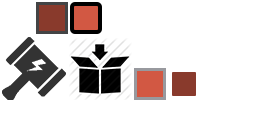
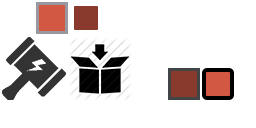
Building placement UI looks much better.

Changed region(s): [[0.5, 0.5312, 0.9375, 0.7812], [0.125, 0.0, 0.4062, 0.2812]]

diff --git a/drack/src/com/skorulis/drack/ui/building/BuildingPlacementUI.java b/drack/src/com/skorulis/drack/ui/building/BuildingPlacementUI.java
@@ -2,23 +2,26 @@ package com.skorulis.drack.ui.building;
 
 import com.badlogic.gdx.math.Vector3;
 import com.badlogic.gdx.scenes.scene2d.InputEvent;
-import com.badlogic.gdx.scenes.scene2d.ui.TextButton;
+import com.badlogic.gdx.scenes.scene2d.ui.ImageButton;
 import com.badlogic.gdx.scenes.scene2d.ui.WidgetGroup;
 import com.badlogic.gdx.scenes.scene2d.utils.ClickListener;
 import com.skorulis.drack.building.Building;
 import com.skorulis.drack.ui.PlayerUI;
 import com.skorulis.drack.ui.UIManager;
+import com.skorulis.gdx.ui.LayoutHelper;
 
 public class BuildingPlacementUI extends WidgetGroup {
 
-	private final TextButton tickButton;
-	private final TextButton cancelButton;
+	private final ImageButton tickButton;
+	private final ImageButton cancelButton;
 	private final Building building;
 	private final UIManager ui;
+	private LayoutHelper helper;
 	
 	public BuildingPlacementUI(final UIManager ui, final PlayerUI playerUI,Building building) {
-		tickButton = new TextButton("CONFIRM",ui.style().defaultSkin());
-		cancelButton = new TextButton("CANCEL",ui.style().defaultSkin());
+		helper = new LayoutHelper(this);
+		tickButton = new ImageButton(ui.style().createImageStyle("check"));
+		cancelButton = new ImageButton(ui.style().createImageStyle("cross_white"));
 		this.building = building;
 		this.ui = ui;
 		
@@ -43,8 +46,8 @@ public class BuildingPlacementUI extends WidgetGroup {
 	}
 	
 	public void layout() {
-		tickButton.setBounds(100, 100, tickButton.getPrefWidth(), tickButton.getPrefHeight());
-		cancelButton.setBounds(200, 100, cancelButton.getPrefWidth(), cancelButton.getPrefHeight());
+		//tickButton.setBounds(100, 100, tickButton.getPrefWidth(), tickButton.getPrefHeight());
+		helper.alignRight(cancelButton, 0);
 	}
 	
 	public void act(float delta) {
@@ -55,11 +58,11 @@ public class BuildingPlacementUI extends WidgetGroup {
 	}
 	
 	public float getPrefHeight() {
-		return 200;
+		return 150;
 	}
 	
 	public float getPrefWidth() {
-		return 300;
+		return 150;
 	}
 	
 	
